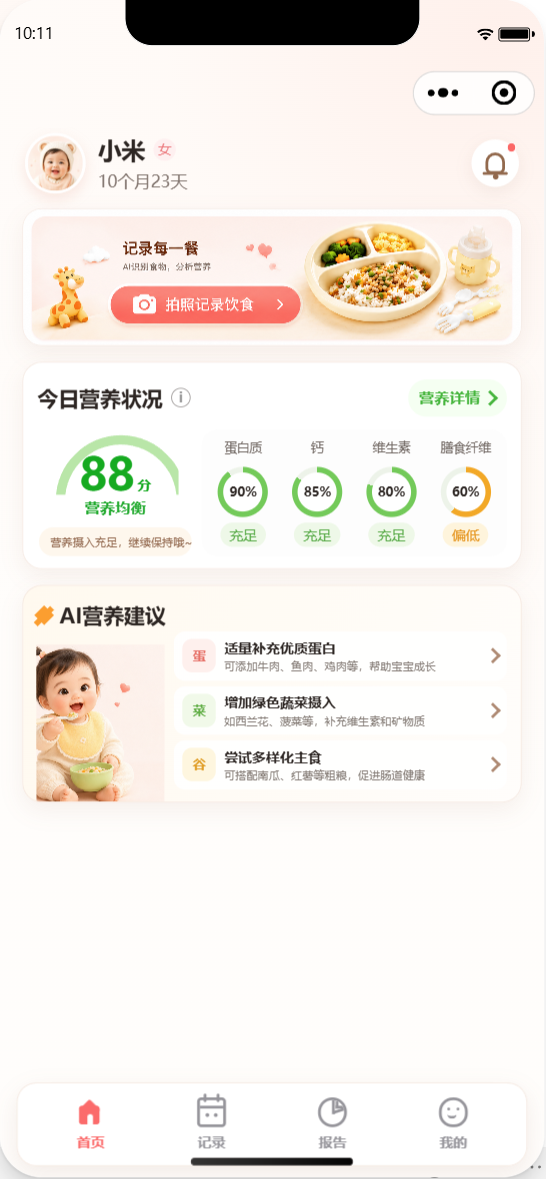
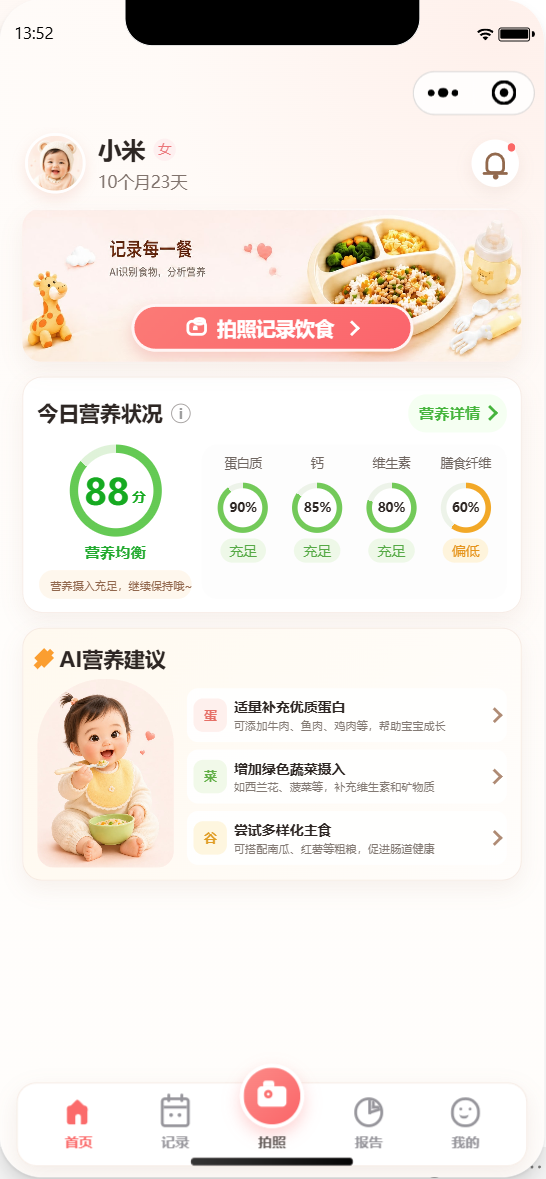
首页展示适配已调整好

diff --git a/docs/visual-acceptance.md b/docs/visual-acceptance.md
@@ -21,8 +21,11 @@
 | 页面 | 区域 | 规格 | 实测 | 误差 | 结果 |
 | --- | --- | ---: | ---: | ---: | --- |
 | 首页 | 头像 | 84 × 84rpx | 43 × 43px | 1.31rpx | 通过 |
-| 首页 | 拍照横幅 | 192rpx 高 | 99px | 1.62rpx | 通过 |
+| 首页 | 拍照横幅 | 212rpx 高 | 110px | 0.46rpx | 通过 |
+| 首页 | 横幅按钮水平居中 | 中心误差 < 4rpx | 0px | 0rpx | 通过 |
 | 首页 | 营养卡 | ≥260rpx 高 | 149px | 0rpx | 通过 |
+| 首页 | 总体评分圆环 | 128 × 128rpx、无裁切 | 66 × 66px | 1.08rpx | 通过 |
+| 首页 | AI 建议布局 | 宝宝主体居中于左图、建议位于右侧 | 左图右文 | 视觉核验 | 通过 |
 | 拍照 | 步骤条 | 116rpx 高 | 60px | 0.62rpx | 通过 |
 | 拍照 | 取景框 | ≤720rpx 高 | 374px | 0rpx | 通过 |
 | 拍照 | 拍照按钮 | 98 × 98rpx | 50 × 50px | 1.85rpx | 通过 |

diff --git a/docs/ui-delivery-standard.md b/docs/ui-delivery-standard.md
@@ -45,7 +45,7 @@
 | 页面 | 区域 | 目标尺寸/行为 |
 | --- | --- | --- |
 | 首页 | 用户信息 | 高 `112rpx`；头像 `84rpx`；通知按钮 `64rpx` |
-| 首页 | 拍照横幅 | 高 `192rpx`；圆角 `28rpx`；整卡可点击 |
+| 首页 | 拍照横幅 | 高 `212rpx`；圆角 `28rpx`；按钮相对横幅水平居中；整卡可点击 |
 | 首页 | 营养卡 | 最小高 `260rpx`；总分与 4 项营养分栏 |
 | 拍照 | 步骤条 | 高 `116rpx`；当前步骤使用主色 |
 | 拍照 | 取景框 | 宽 `686rpx`；随屏幕高度压缩 |
